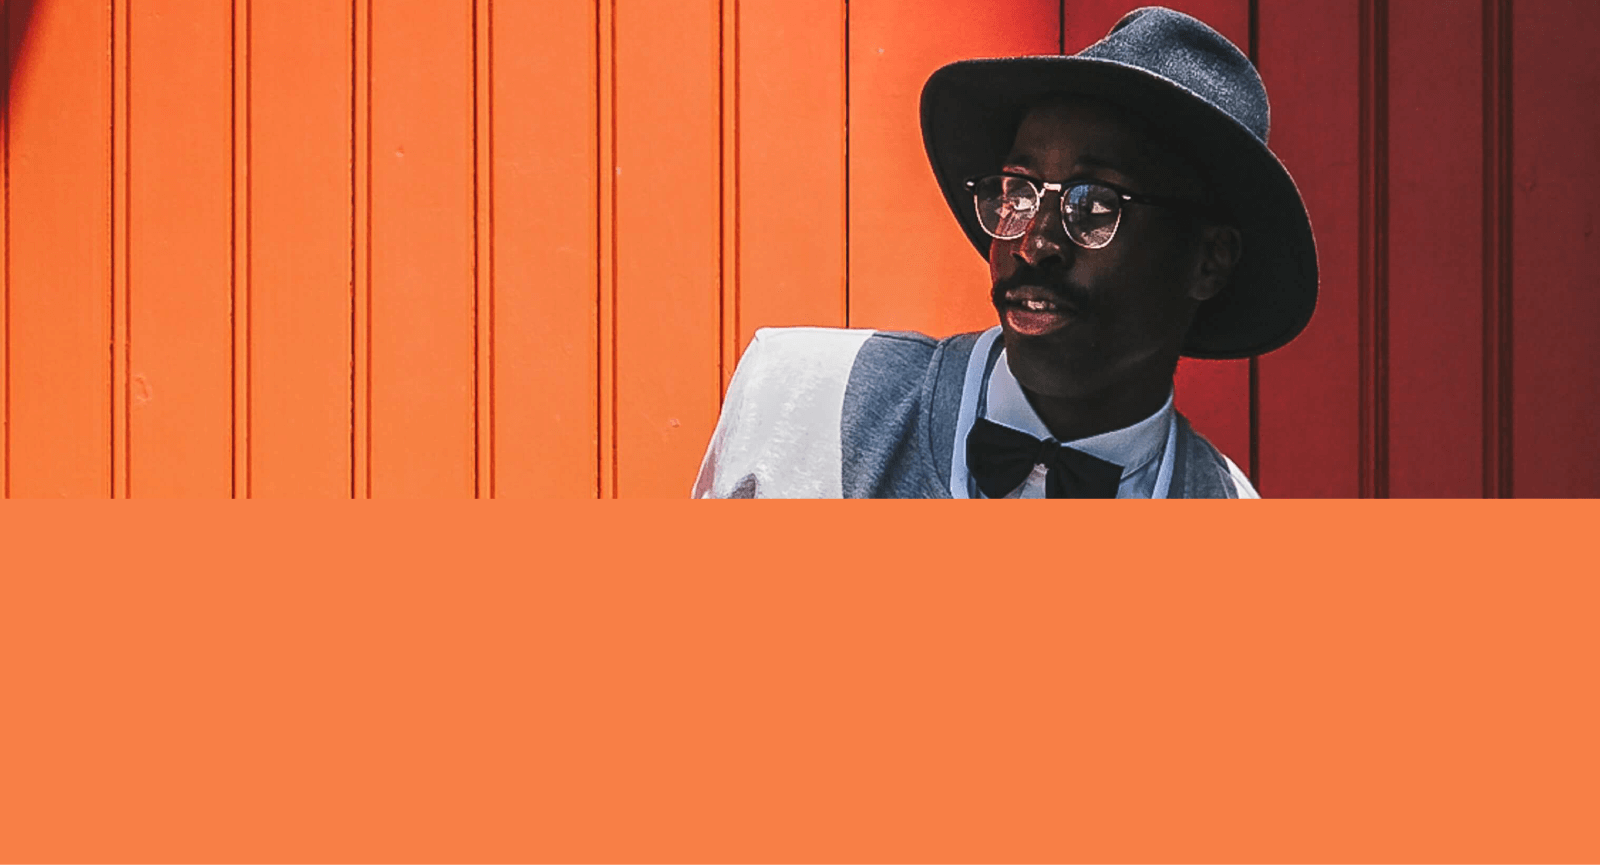
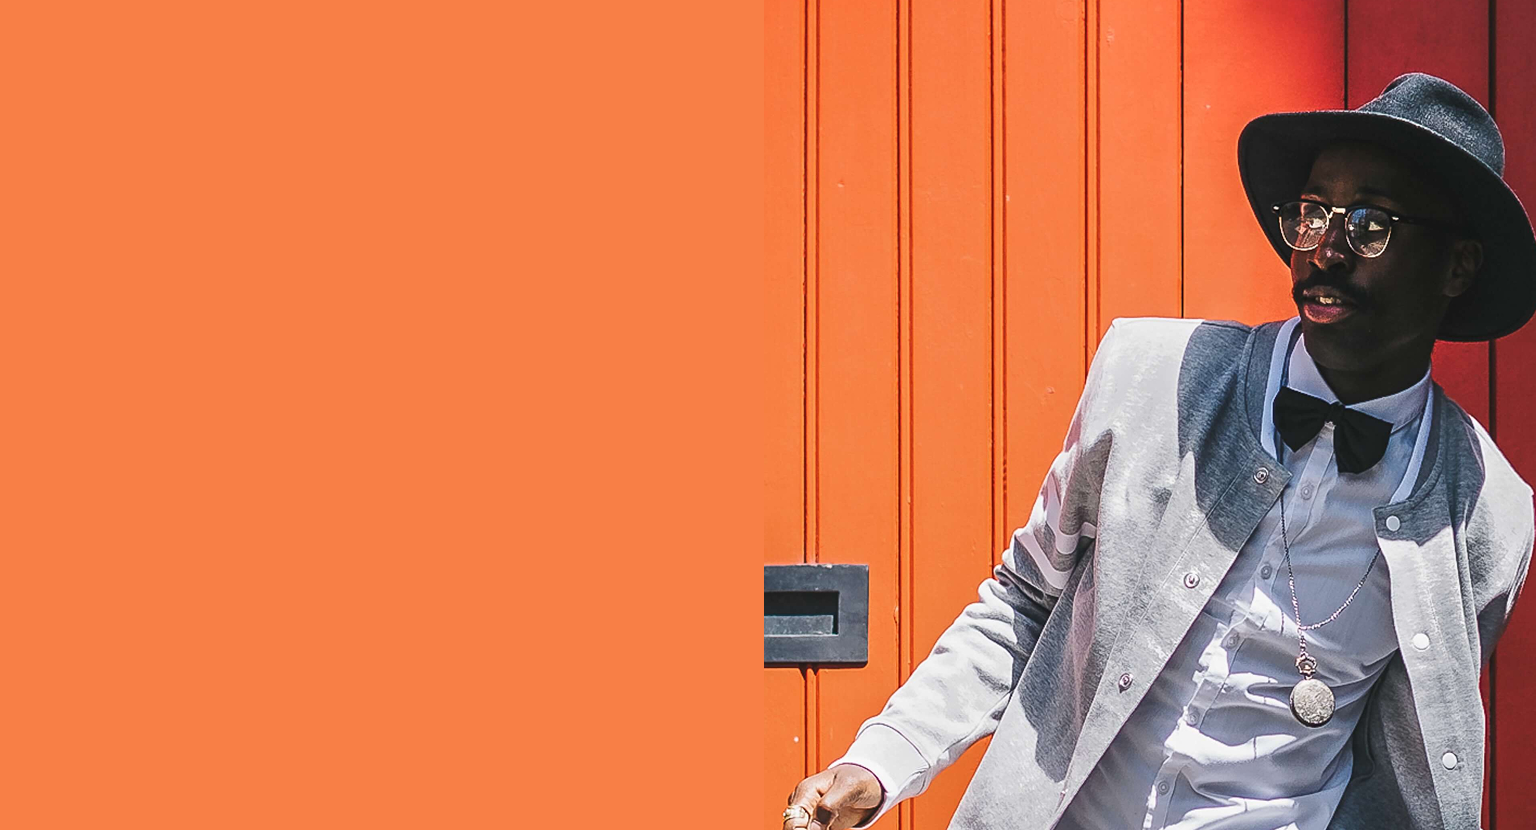
Arrumado textos desalinhados em diferentes tipos de tela e responsividade do espaçamento dos titulos

diff --git a/index.html b/index.html
@@ -17,7 +17,9 @@
 <body>
     <nav class="navbar navbar-expand-md bg-black navbar-dark">
         <div class="container-fluid">
-            <a class="navbar-brand" href="#"><h1 class="d-block"><img src="./assets/logo-meteora.png" alt="logo da Meteora"></h1></a>
+            <a class="navbar-brand" href="#">
+                <h1 class="d-block"><img src="./assets/logo-meteora.png" alt="logo da Meteora"></h1>
+            </a>
             <button class="navbar-toggler" type="button" data-bs-toggle="collapse"
                 data-bs-target="#navbarSupportedContent" aria-controls="navbarSupportedContent" aria-expanded="false"
                 aria-label="Toggle navigation">
@@ -39,7 +41,8 @@
                     </li>
                 </ul>
                 <form class="d-flex" role="search">
-                    <input class="form-control me-2 rounded-0 " type="search" placeholder="Digite o produto" aria-label="Search">
+                    <input class="form-control me-2 rounded-0 " type="search" placeholder="Digite o produto"
+                        aria-label="Search">
                     <button class="btn btn-outline-light rounded-0" type="submit">Buscar</button>
                 </form>
             </div>
@@ -55,32 +58,36 @@
                 class=""></button>
         </div>
         <div class="carousel-inner">
-            <div class="carousel-item active bg-roxo">
-                <img class="img-fluid d-md-none" src="./assets/Mobile/banner1-mobile.png" alt="Modelo feminina vestindo moletom roxo">
-                <img class="img-fluid d-none d-md-block d-xl-none" src="./assets/Tablet/banner1-tablet.png" alt="Modelo feminina vestindo moletom roxo">
-                <img class="img-fluid d-none d-xl-block text-center" src="./assets/Desktop/banner1-desktop.png" alt="Modelo feminina vestindo moletom roxo">
-                
-                <div class="carousel-caption d-none d-md-block">
-                    <h5>First slide label</h5>
-                    <p>Some representative placeholder content for the first slide.</p>
+            <div class="carousel-item active">
+                <img class="w-100 img-fluid d-md-none" src="./assets/Mobile/banner1-mobile.png"
+                    alt="Modelo feminina vestindo blusa rosa fluorescente, em fundo lilás.">
+                <img class="w-100 img-fluid d-none d-md-block d-xl-none" src="./assets/Tablet/banner1-tablet.png"
+                    alt="Modelo feminina vestindo blusa rosa fluorescente, em fundo lilás.">
+                <img class="w-100 img-fluid d-none d-xl-block" src="./assets/Desktop/banner1-desktop.png"
+                    alt="Modelo feminina vestindo blusa rosa fluorescente, em fundo lilás.">
+            </div>
+            <div class="carousel-item position-relative">
+                <img class="w-100 img-fluid d-md-none" src="./assets/Mobile/banner2-mobile.png"
+                    alt="Modelo feminina utilizando óculos escuros e vestindo conjunto esportivo de blusa e calça na cor preta, sentada em um sofá preto em um fundo rosa.">
+                <img class="w-100 img-fluid d-none d-md-block d-xl-none" src="./assets/Tablet/banner2-tablet.png"
+                    alt="Modelo feminina utilizando óculos escuros e vestindo conjunto esportivo de blusa e calça na cor preta, sentada em um sofá preto em um fundo rosa.">
+                <img class="w-100 img-fluid d-none d-xl-block" src="./assets/Desktop/banner2-desktop.png"
+                    alt="Modelo feminina utilizando óculos escuros e vestindo conjunto esportivo de blusa e calça na cor preta, sentada em um sofá preto em um fundo rosa.">
+                <div class="carousel-caption position-absolute posicao">
+                    <h5 class="fs-1">COLEÇÃO ATEMPORAL</h5>
+                    <p class="fs-4">Estilo e qualidade para durar.</p>
                 </div>
             </div>
-            <div class="carousel-item">
-                <img class="img-fluid d-md-none" src="./assets/Mobile/banner2-mobile.png" alt="Modelo feminina vestindo moletom roxo">
-                <img class="img-fluid d-none d-md-block d-xl-none" src="./assets/Tablet/banner2-tablet.png" alt="Modelo feminina vestindo moletom roxo">
-                <img class="img-fluid d-none d-xl-block text-center" src="./assets/Desktop/banner2-desktop.png" alt="Modelo feminina vestindo moletom roxo">
-                <div class="carousel-caption d-none d-md-block">
-                    <h5>Second slide label</h5>
-                    <p>Some representative placeholder content for the second slide.</p>
-                </div>
-            </div>
-            <div class="carousel-item">
-                <img class="img-fluid d-md-none" src="./assets/Mobile/banner3-mobile.png" alt="Modelo feminina vestindo moletom roxo">
-                <img class="img-fluid d-none d-md-block d-xl-none" src="./assets/Tablet/banner3-tablet.png" alt="Modelo feminina vestindo moletom roxo">
-                <img class="img-fluid d-none d-xl-block text-center" src="./assets/Desktop/banner3-desktop.png" alt="Modelo feminina vestindo moletom roxo">
-                <div class="carousel-caption d-none d-md-block">
-                    <h5>Third slide label</h5>
-                    <p>Some representative placeholder content for the third slide.</p>
+            <div class="carousel-item position-relative">
+                <img class="w-100 img-fluid d-md-none" src="./assets/Mobile/banner3-mobile.png"
+                    alt="Modelo feminina utilizando óculos escuros e vestindo conjunto esportivo de blusa e calça na cor preta, sentada em um sofá preto em um fundo rosa.">
+                <img class="w-100 img-fluid d-none d-md-block d-xl-none" src="./assets/Tablet/banner3-tablet.png"
+                    alt="Modelo feminina utilizando óculos escuros e vestindo conjunto esportivo de blusa e calça na cor preta, sentada em um sofá preto em um fundo rosa.">
+                <img class="w-100 img-fluid d-none d-xl-block" src="./assets/Desktop/banner3-desktop.png"
+                    alt="Modelo feminina utilizando óculos escuros e vestindo conjunto esportivo de blusa e calça na cor preta, sentada em um sofá preto em um fundo rosa.">
+                <div class="carousel-caption position-absolute posicao">
+                    <h5 class="fs-1">COLEÇÃO ATEMPORAL</h5>
+                    <p class="fs-4">Alto impacto visual, baixo impacto ambiental!</p>
                 </div>
             </div>
         </div>
@@ -96,7 +103,7 @@
         </button>
     </div>
 
-    <h2 class="text-center">Busque por categoria:</h2>
+    <h2 class="text-center my-3 my-xl-5">Busque por categoria:</h2>
 
     <div class="container row mx-auto g-4">
         <div class="col-6 col-md-4 col-xxl-2">
@@ -185,7 +192,7 @@
         </div>
     </div>
 
-    <h2 class="text-center">Produtos que estão bombando</h2>
+    <h2 class="container text-center my-3 my-xl-5">Produtos que estão bombando</h2>
 
     <div class="container row mx-auto mb-4 row-gap-4 ">
         <div class="col-12 col-md-6 col-xxl-4">
@@ -299,7 +306,7 @@
 
     <section class="pb-4 bg-black text-white">
 
-        <h2 class="text-center">Conheça todas as nossas facilidades</h2>
+        <h2 class="text-center my-3">Conheça todas as nossas facilidades</h2>
 
         <div class="d-flex flex-column align-items-center gap-3
         flex-lg-row align-items-center justify-content-center px-3">
@@ -330,7 +337,7 @@
         </div>
     </section>
 
-    <form class="border border-secondary m-3 p-3 text-center div-novidades mx-auto">
+    <form class="border border-secondary m-3 p-3 text-center div-novidades mx-auto my-3 my-xl-5">
         <h5>
             Quer receber nossas novidades, promoções exclusivas e 10% OFF na primeira
             compra? Cadastre-se!
@@ -344,7 +351,8 @@
     </form>
 
     <footer class="text-center bg-black">
-        <p class="py-3 text-white m-0">2023 <i class="bi bi-c-circle"></i> Desenvolvido por Alura | Projeto fictício sem fins
+        <p class="py-3 text-white m-0">2023 <i class="bi bi-c-circle"></i> Desenvolvido por Alura | Projeto fictício sem
+            fins
             comerciais.</p>
     </footer>
 

diff --git a/style.css b/style.css
@@ -21,3 +21,13 @@
 .bg-roxo {
     background-color: #9353FF;
 }
+
+.posicao{
+    top: 40%;
+}
+
+@media(max-width: 767px){
+    .posicao{
+        top:60%;
+    }
+}
